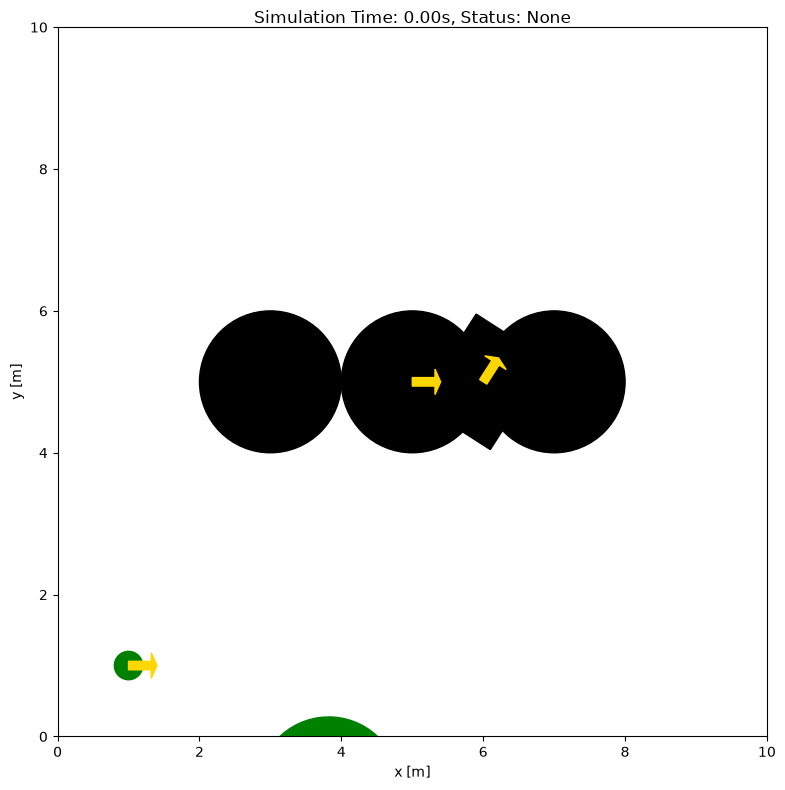
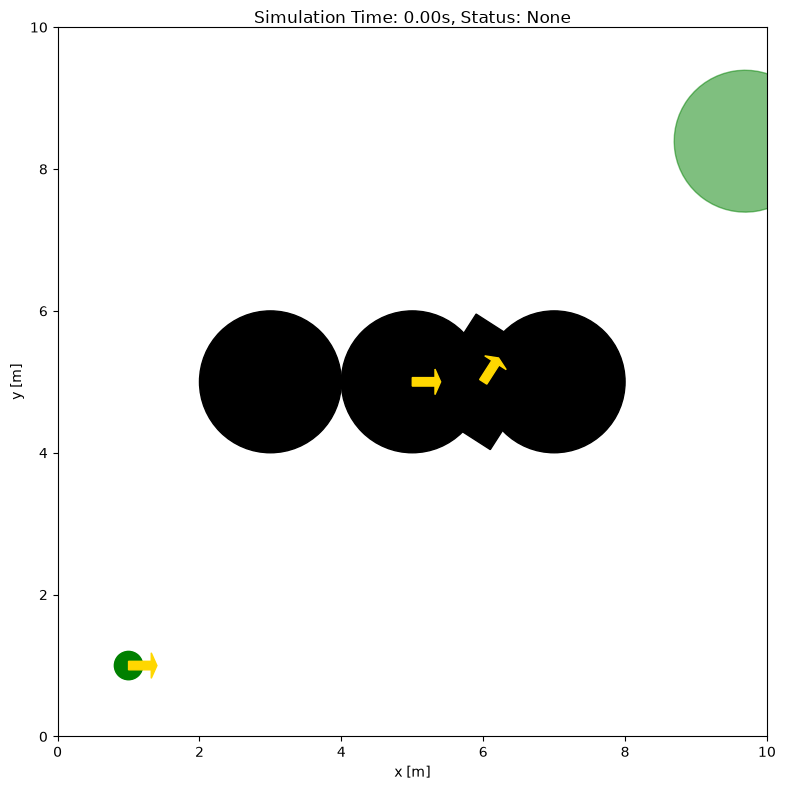
fix: use proper RECT collision geometry for rectangle dynamic obstacles

Changed region(s): [[0.8561, 0.0911, 0.9783, 0.2734], [0.3669, 0.881, 0.4892, 0.9418]]

diff --git a/irsim_core/src/world.cpp b/irsim_core/src/world.cpp
@@ -87,6 +87,37 @@ int SimWorld::add_dynamic_obstacle(KinematicsType kin, float x, float y, float t
     return id;
 }
 
+int SimWorld::add_dynamic_rect_obstacle(KinematicsType kin, float x, float y, float theta,
+                                          float half_w, float half_h,
+                                          const float* vel_min,
+                                          const float* vel_max,
+                                          const float* vel_acc)
+{
+    DynamicObstacle dob;
+    dob.x = x; dob.y = y; dob.theta = theta;
+    dob.kin = kin;
+    dob.shape_type = ShapeType::RECT;
+    dob.half_w = half_w;
+    dob.half_h = half_h;
+
+    if (vel_min) for (int i = 0; i < 3; i++) dob.vel_min[i] = vel_min[i];
+    if (vel_max) for (int i = 0; i < 3; i++) dob.vel_max[i] = vel_max[i];
+    if (vel_acc) for (int i = 0; i < 3; i++) dob.vel_acc[i] = vel_acc[i];
+
+    Obstacle obs;
+    obs.type = ShapeType::RECT;
+    obs.center = {x, y};
+    obs.half_w = half_w;
+    obs.half_h = half_h;
+    obs.compute_aabb();
+    obstacles_.push_back(obs);
+    dob.obs_index = (int)obstacles_.size() - 1;
+
+    int id = (int)dyn_obstacles_.size();
+    dyn_obstacles_.push_back(dob);
+    return id;
+}
+
 int SimWorld::add_dynamic_polygon_obstacle(KinematicsType kin, float x, float y, float theta,
                                             const std::vector<Vec2>& verts,
                                             const float* vel_min,
@@ -139,6 +170,8 @@ void SimWorld::update_dyn_obs_geometry(int dyn_id) {
     auto& obs = obstacles_[dob.obs_index];
 
     if (dob.shape_type == ShapeType::CIRCLE) {
+        obs.center = {dob.x, dob.y};
+    } else if (dob.shape_type == ShapeType::RECT) {
         obs.center = {dob.x, dob.y};
     } else if (dob.shape_type == ShapeType::POLYGON) {
         // Compute translation offset from initial center

diff --git a/tests/test_cpp_core.py b/tests/test_cpp_core.py
@@ -213,7 +213,34 @@ class TestSimWorldDynamicObstacles:
         verts = [[-1.0, -1.0], [1.0, -1.0], [1.0, 1.0], [-1.0, 1.0]]
         w.add_dynamic_polygon_obstacle(0, 0.0, 0.0, 0.0, verts)
         w.add_robot(0, 0.0, 0.0, 0.0)
-        # Robot overlaps with polygon at origin -> collision
+        robot_actions = np.zeros(3, dtype=np.float32)
+        w.step(robot_actions, 3)
+        assert w.check_robot_collision(0)
+
+    def test_add_dynamic_rect(self):
+        w = _cc.SimWorld()
+        did = w.add_dynamic_rect_obstacle(0, 5.0, 5.0, 0.0, 2.0, 1.0)
+        assert did == 0
+        assert w.num_dynamic_obstacles() == 1
+        assert w.num_obstacles() == 1
+
+    def test_step_dynamic_rect_moves(self):
+        w = _cc.SimWorld()
+        w.set_step_time(0.1)
+        w.add_dynamic_rect_obstacle(0, 0.0, 0.0, 0.0, 2.0, 1.0)
+        w.add_robot(0, 10.0, 10.0, 0.0)
+        robot_actions = np.zeros(3, dtype=np.float32)
+        w.step(robot_actions, 3)
+        obs_actions = np.array([1.0, 0.0, 0.0], dtype=np.float32)
+        w.step_dynamic_obstacles(obs_actions, 3)
+        px, _, _ = w.get_obstacle_pose(0)
+        assert px == pytest.approx(0.01, abs=0.001)
+
+    def test_dynamic_rect_collision_detected(self):
+        w = _cc.SimWorld()
+        w.set_step_time(0.1)
+        w.add_dynamic_rect_obstacle(0, 0.0, 0.0, 0.0, 2.0, 2.0)
+        w.add_robot(0, 0.0, 0.0, 0.0)
         robot_actions = np.zeros(3, dtype=np.float32)
         w.step(robot_actions, 3)
         assert w.check_robot_collision(0)

diff --git a/irsim_core/bindings/pybind_module.cpp b/irsim_core/bindings/pybind_module.cpp
@@ -177,6 +177,30 @@ PYBIND11_MODULE(_core, m) {
            py::arg("vel_min") = py::array_t<float>(),
            py::arg("vel_max") = py::array_t<float>(),
            py::arg("vel_acc") = py::array_t<float>())
+        .def("add_dynamic_rect_obstacle", [](SimWorld& w, int kin, float x, float y, float theta,
+                                               float half_w, float half_h,
+                                               py::array_t<float> vel_min = py::array_t<float>(),
+                                               py::array_t<float> vel_max = py::array_t<float>(),
+                                               py::array_t<float> vel_acc = py::array_t<float>()) -> int {
+            float vmin[3] = {-1.0f, -1.0f, -1.0f};
+            float vmax[3] = { 1.0f,  1.0f,  1.0f};
+            float vacc[3] = { 1.0f,  1.0f,  1.0f};
+            if (vel_min.size() > 0) { auto b = vel_min.request();
+                for (size_t i = 0; i < size_t(b.size) && i < 3; i++)
+                    vmin[i] = static_cast<const float*>(b.ptr)[i]; }
+            if (vel_max.size() > 0) { auto b = vel_max.request();
+                for (size_t i = 0; i < size_t(b.size) && i < 3; i++)
+                    vmax[i] = static_cast<const float*>(b.ptr)[i]; }
+            if (vel_acc.size() > 0) { auto b = vel_acc.request();
+                for (size_t i = 0; i < size_t(b.size) && i < 3; i++)
+                    vacc[i] = static_cast<const float*>(b.ptr)[i]; }
+            return w.add_dynamic_rect_obstacle(static_cast<KinematicsType>(kin), x, y, theta,
+                                               half_w, half_h, vmin, vmax, vacc);
+        }, py::arg("kinematics"), py::arg("x"), py::arg("y"), py::arg("theta"),
+           py::arg("half_w"), py::arg("half_h"),
+           py::arg("vel_min") = py::array_t<float>(),
+           py::arg("vel_max") = py::array_t<float>(),
+           py::arg("vel_acc") = py::array_t<float>())
         .def("add_dynamic_polygon_obstacle", [](SimWorld& w, int kin, float x, float y, float theta,
                                                   py::list verts_list,
                                                   py::array_t<float> vel_min = py::array_t<float>(),

diff --git a/irsim/env/env_base.py b/irsim/env/env_base.py
@@ -348,7 +348,7 @@ class EnvBase:
                     }
                 )
                 if not obj.static and shape == "circle":
-                    did = self._add_dynamic_obstacle_to_cpp(w, obj, x, y, radius, gf)
+                    did = self._add_dynamic_obstacle_to_cpp(w, obj, x, y, "circle", radius)
                     if did >= 0:
                         dyn_obs_map[id(obj)] = did
             elif shape == "rectangle":
@@ -381,7 +381,7 @@ class EnvBase:
                     hw = float(getattr(gf, "half_w", 0.5))
                     hh = float(getattr(gf, "half_h", 0.5))
                     did = self._add_dynamic_obstacle_to_cpp(
-                        w, obj, x, y, max(hw, hh), gf
+                        w, obj, x, y, "rectangle", hw, hh
                     )
                     if did >= 0:
                         dyn_obs_map[id(obj)] = did
@@ -475,9 +475,16 @@ class EnvBase:
         self._cpp_world = w
 
     def _add_dynamic_obstacle_to_cpp(
-        self, w: Any, obj: Any, x: float, y: float, approx_radius: float, gf: Any
+        self, w: Any, obj: Any, x: float, y: float, shape_name: str,
+        dim1: float, dim2: float | None = None
     ) -> int:
-        """Add a dynamic obstacle to the C++ SimWorld. Returns the dynamic obstacle id."""
+        """Add a dynamic obstacle to the C++ SimWorld.
+
+        Args:
+            shape_name: "circle" or "rectangle"
+            dim1: radius for circle, half_w for rectangle
+            dim2: half_h for rectangle (None for circle)
+        """
         kin_map = {"diff": 0, "omni": 1, "acker": 2, "omni_angular": 3}
         kid = kin_map.get(getattr(obj, "kinematics", "diff"), 0)
         vmin = (
@@ -498,9 +505,11 @@ class EnvBase:
         vacc3[: len(vacc)] = vacc
         pos = getattr(obj, "position", None)
         theta = float(pos[2, 0]) if pos is not None and pos.shape[0] >= 3 else 0.0
-        return w.add_dynamic_obstacle(
-            kid, x, y, theta, approx_radius, vmin3, vmax3, vacc3
-        )
+        if shape_name == "rectangle":
+            hw = dim1
+            hh = dim2 if dim2 is not None else dim1
+            return w.add_dynamic_rect_obstacle(kid, x, y, theta, hw, hh, vmin3, vmax3, vacc3)
+        return w.add_dynamic_obstacle(kid, x, y, theta, dim1, vmin3, vmax3, vacc3)
 
     def _c_step_available(self) -> bool:
         """Check if C++ acceleration can handle the current scene."""

diff --git a/irsim_core/include/world.h b/irsim_core/include/world.h
@@ -45,6 +45,9 @@ struct DynamicObstacle {
     // For circle
     float radius = 0.5f;
 
+    // For rect
+    float half_w = 0.5f, half_h = 0.5f;
+
     // For polygon: vertices stored persistently
     std::vector<Vec2> local_vertices;     // vertices relative to initial center
     float init_center_x = 0, init_center_y = 0;  // initial absolute center
@@ -82,6 +85,12 @@ public:
                              const float* vel_min = nullptr,
                              const float* vel_max = nullptr,
                              const float* vel_acc = nullptr);
+
+    int add_dynamic_rect_obstacle(KinematicsType kin, float x, float y, float theta,
+                                   float half_w, float half_h,
+                                   const float* vel_min = nullptr,
+                                   const float* vel_max = nullptr,
+                                   const float* vel_acc = nullptr);
 
     // Add a dynamic polygon obstacle.
     // verts: absolute world-coordinate vertices (same as add_polygon_obstacle).